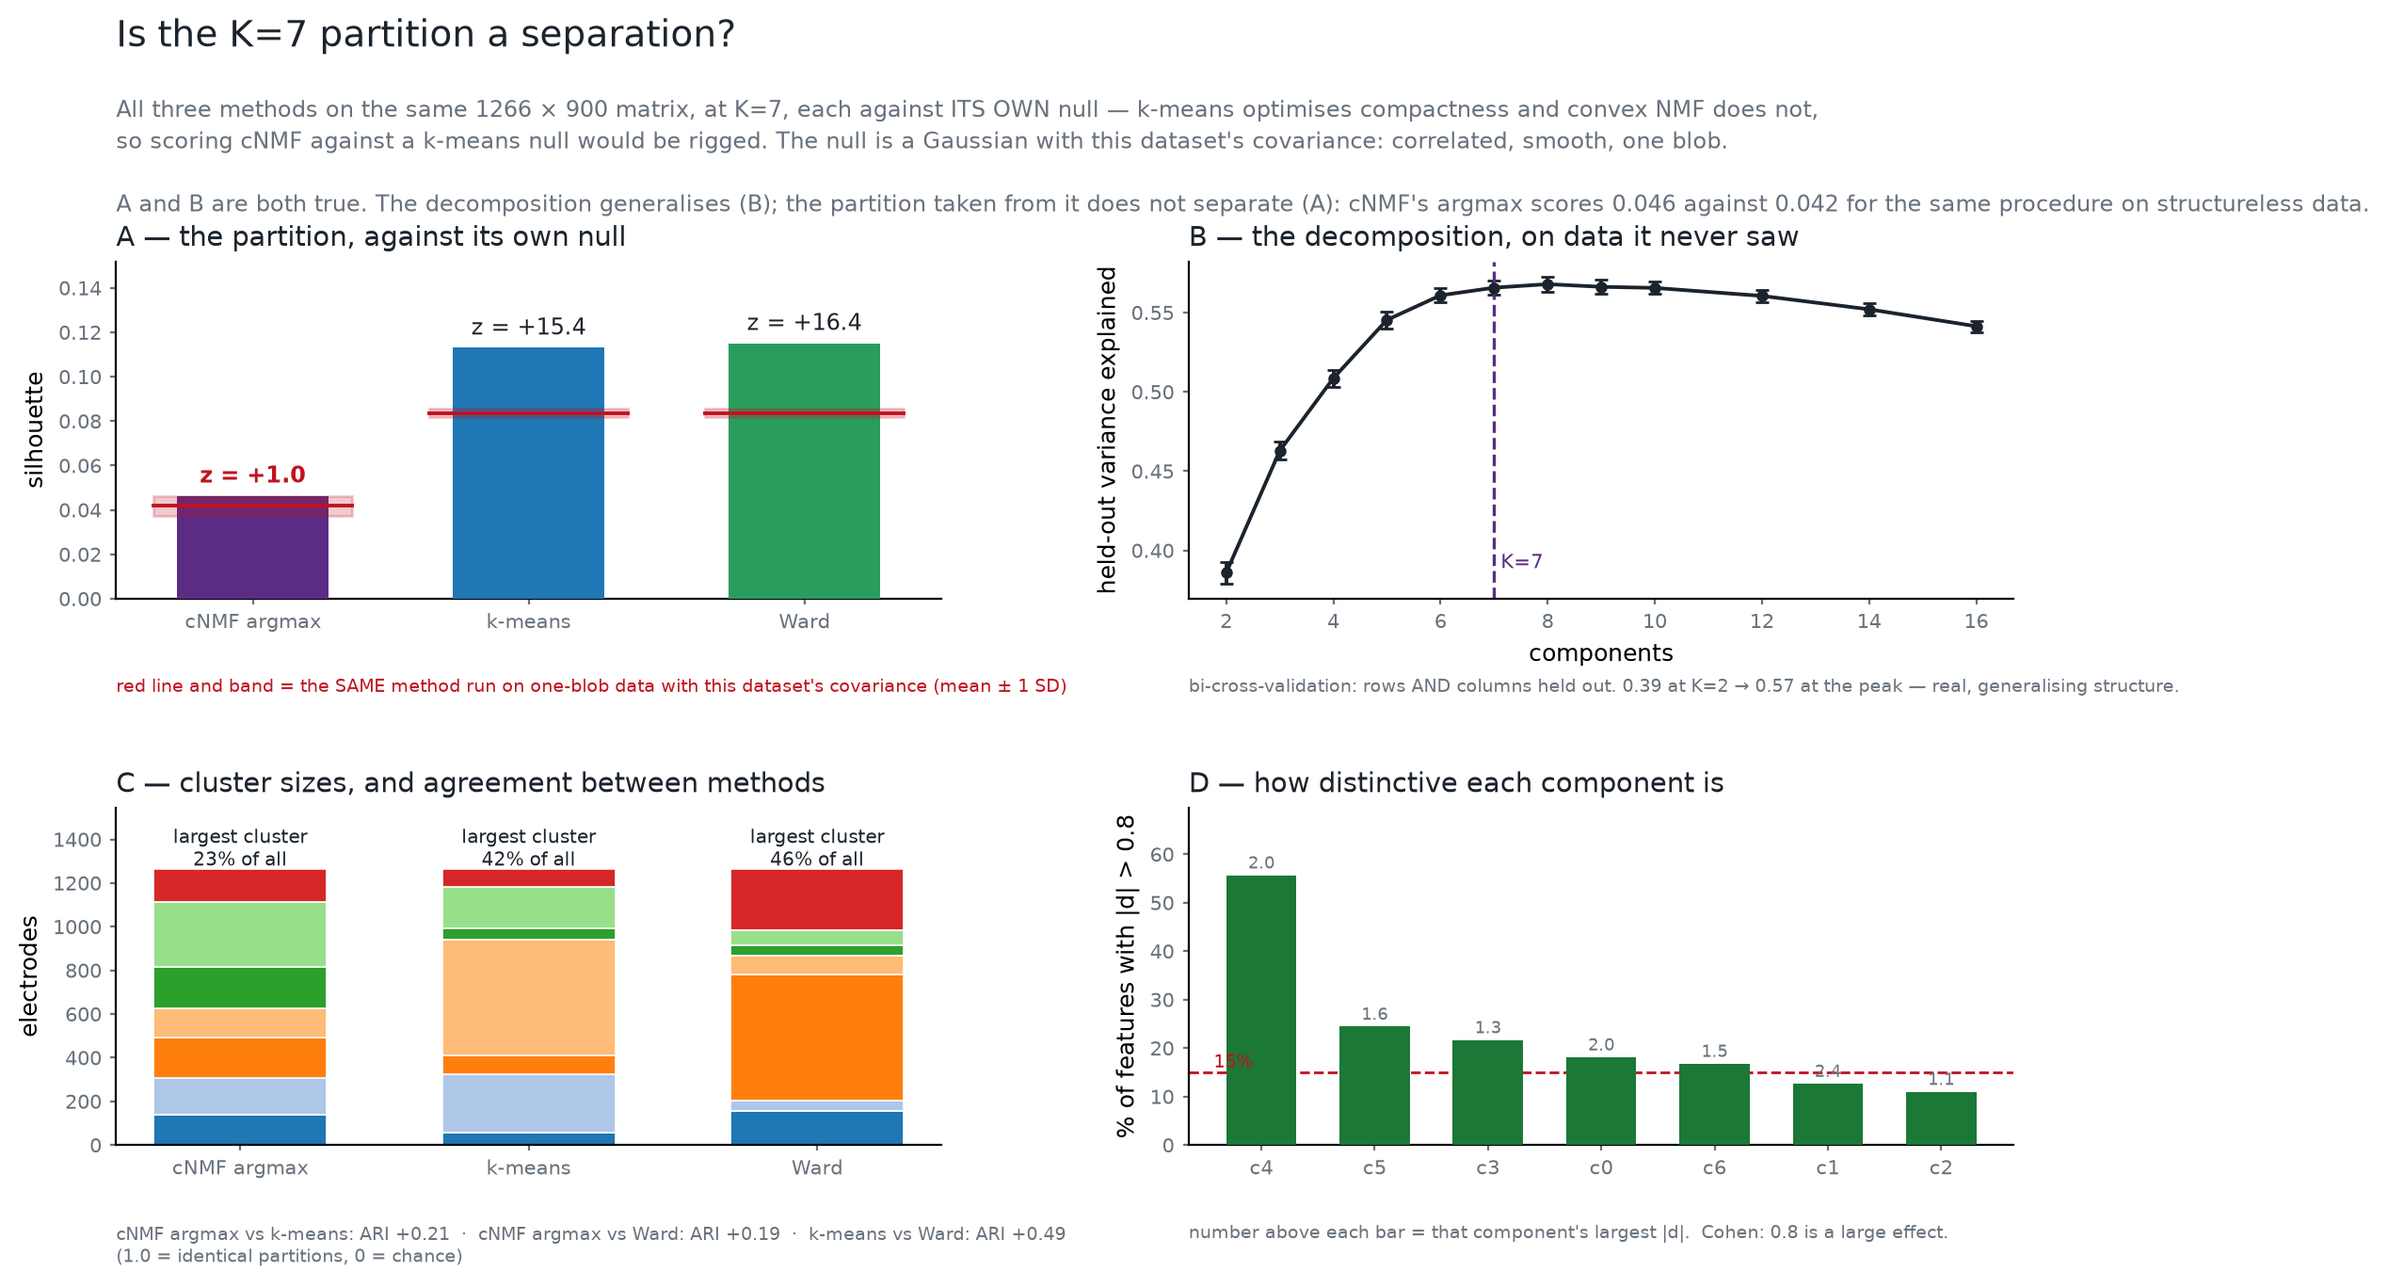
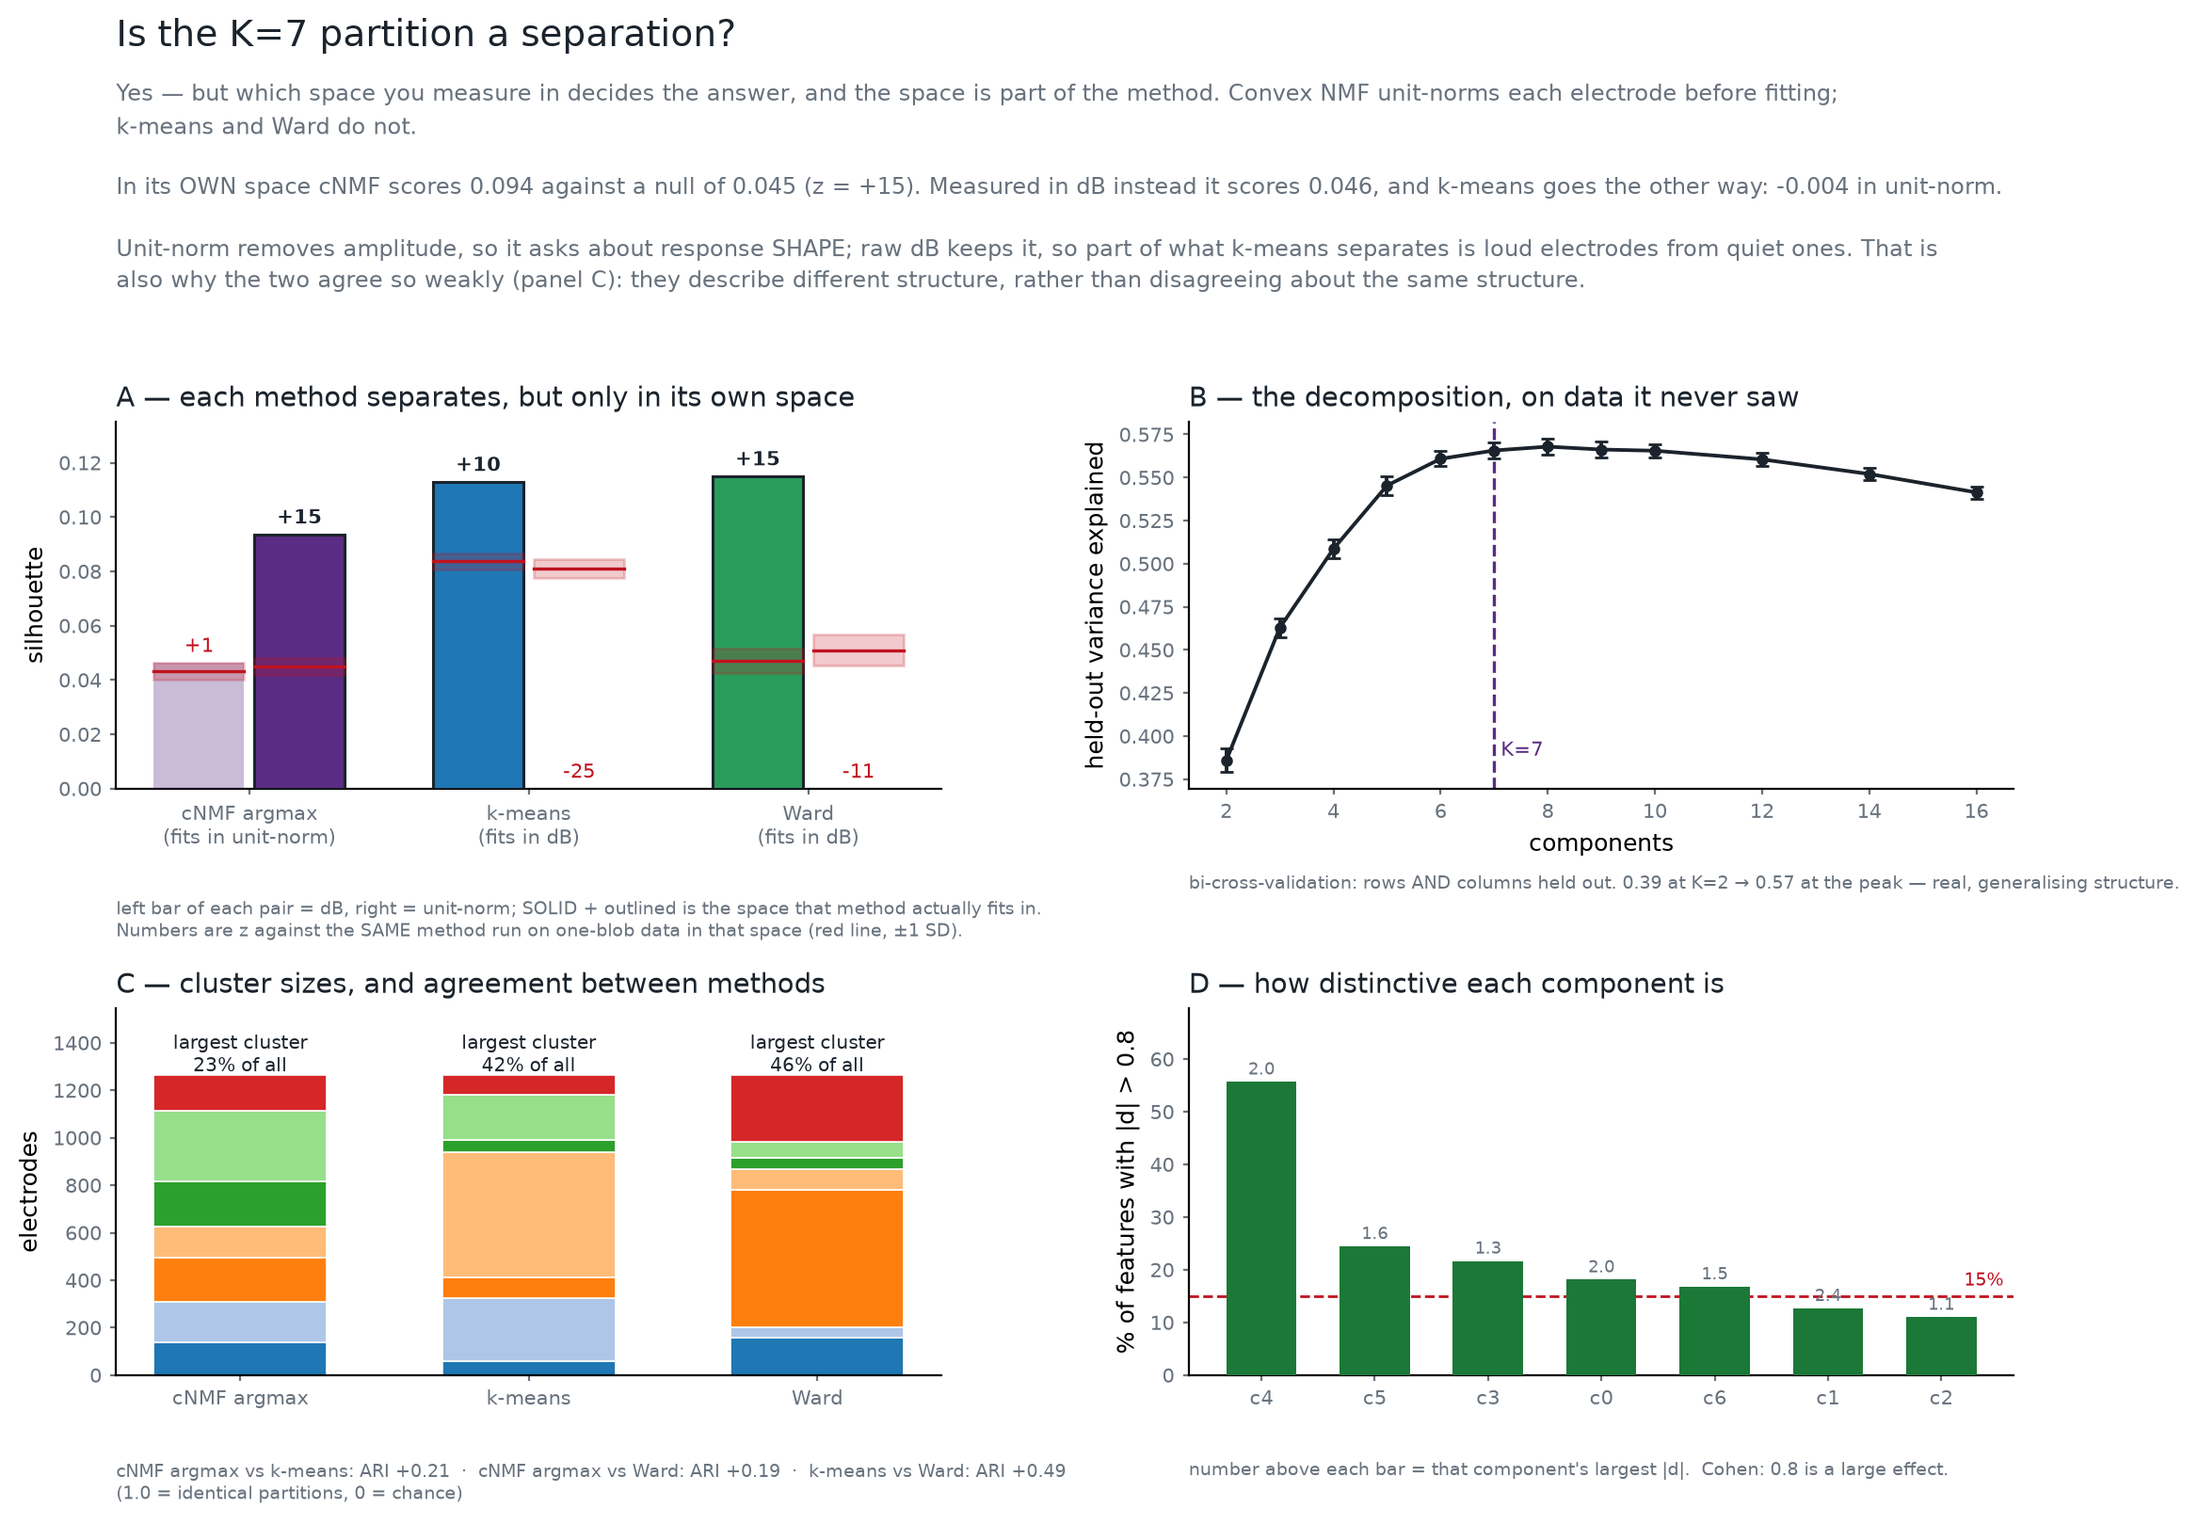
Correct FIG C.7: silhouette is space-dependent, and I measured cNMF in the wrong one
The version pushed an hour ago concluded that the convex-NMF partition does not
separate (silhouette 0.046, z = +1.0). That was wrong, and the error was mine:
convex NMF unit-norms each electrode before fitting - it says so in its own
manifest - while k-means and Ward fit on raw dB. X_train.npy is raw dB, so
scoring all three there measured cNMF in a space it never optimised in.

Scored in both spaces, each against a null built the same way in that space:

                        dB                unit-norm
    cNMF argmax    0.046  z  +1      0.094  z +15   <- its own space
    k-means        0.113  z +10     -0.004  z -25
    Ward           0.115  z +15     -0.010  z -11

Every method beats its null decisively at home and collapses in the other's. The
answer to "is this a real separation" is yes; the earlier "no" was an artefact of
the test.

The corrected result is also more informative than the wrong one. Unit-norm
divides out magnitude, so it compares response SHAPE; raw dB keeps magnitude, so
part of what k-means and Ward separate is loud electrodes from quiet ones. That
is why the methods agree so weakly (ARI 0.21 / 0.19 / 0.49): they are describing
different structure rather than contradicting each other about the same
structure. Which space you want is a scientific choice, not a technical one.

Ward also gets its own null now instead of borrowing k-means'. They are not
interchangeable: Ward's dB null is 0.047 against k-means' 0.084.
[…]

diff --git a/02_FBM_Clustering/make_separation_figure.py b/02_FBM_Clustering/make_separation_figure.py
@@ -70,7 +70,19 @@ INK, MUTED = "#1b232c", "#68727d"
 
 
 def compute():
-    from sklearn.cluster import KMeans
+    """Silhouette for each method in BOTH spaces, each against its own matched null.
+
+    THE SPACE IS PART OF THE METHOD. X_train.npy is raw dB; convex NMF unit-norms
+    per electrode before fitting (see its manifest), k-means and Ward do not. An
+    earlier version of this figure scored all three in dB and concluded cNMF did not
+    separate - it had simply been scored in a space it never optimised in. Measured
+    both ways, cNMF goes 0.046 in dB to 0.094 in unit-norm, and k-means goes 0.113
+    in dB to -0.004 in unit-norm. Neither number alone is the answer.
+
+    Unit-norm removes amplitude, so it asks about response SHAPE. Raw dB keeps
+    amplitude, so part of what k-means separates is loud electrodes from quiet ones.
+    """
+    from sklearn.cluster import KMeans, AgglomerativeClustering
     from sklearn.metrics import (silhouette_score, adjusted_rand_score,
                                  normalized_mutual_info_score)
     import lf_decompose as LD
@@ -84,9 +96,13 @@ def compute():
         "k-means": pd.read_csv(RUNS["k-means"] / "cluster_labels_by_k.csv")[f"k_{K}"].to_numpy(),
         "Ward": pd.read_csv(RUNS["Ward"] / "cluster_labels_by_k.csv")[f"k_{K}"].to_numpy(),
     }
+    HOME = {"cNMF argmax": "unit-norm", "k-means": "dB", "Ward": "dB"}
 
-    # one-blob surrogates: the data's own covariance, no cluster structure
-    rng = np.random.default_rng(0)
+    def unit(A):
+        return A / np.maximum(np.linalg.norm(A, axis=1, keepdims=True), 1e-12)
+
+    spaces = {"dB": X, "unit-norm": unit(X)}
+
     Xc = X - X.mean(0)
     n = len(X)
     U, S, Vt = np.linalg.svd(Xc, full_matrices=False)
@@ -95,29 +111,42 @@ def compute():
         Z = np.random.default_rng(seed).standard_normal((n, len(S)))
         return (Z * (S / np.sqrt(n - 1))) @ Vt
 
-    km_null = [silhouette_score(Y, KMeans(K, n_init=10, random_state=i).fit_predict(Y))
-               for i, Y in ((i, surrogate(100 + i)) for i in range(N_NULL_KM))]
-    cn_null = []
-    for i in range(N_NULL_CNMF):
-        Y = surrogate(200 + i)
+    def fit(alg, Y, seed):
+        if alg == "k-means":
+            return KMeans(K, n_init=10, random_state=seed).fit_predict(Y)
+        if alg == "Ward":
+            return AgglomerativeClustering(n_clusters=K, linkage="ward").fit_predict(Y)
         Gy = LD.convex_nmf(Y, K, n_iter=300)[1]
-        Gy = Gy / np.maximum(Gy.sum(1, keepdims=True), 1e-12)
-        cn_null.append(silhouette_score(Y, Gy.argmax(1)))
+        return (Gy / np.maximum(Gy.sum(1, keepdims=True), 1e-12)).argmax(1)
 
-    # k-means and Ward are both compactness partitions, so they share the k-means null
-    nulls = {"cNMF argmax": cn_null, "k-means": km_null, "Ward": km_null}
+    nulls = {}
+    for alg in labels:
+        for sp in spaces:
+            reps = N_NULL_CNMF if alg == "cNMF argmax" else N_NULL_KM
+            vals = []
+            for i in range(reps):
+                Y = surrogate(400 + i)
+                Y = unit(Y) if sp == "unit-norm" else Y
+                vals.append(silhouette_score(Y, fit(alg, Y, i)))
+            nulls[(alg, sp)] = vals
+            print(f"      null {alg:<12} {sp:<10} {np.mean(vals):.4f} +/- {np.std(vals):.4f}")
 
     stats = {"K": K, "n_electrodes": int(n), "n_features": int(X.shape[1]),
-             "methods": {}, "ari": {}, "bicv": {}, "per_component": {}}
+             "home_space": HOME, "methods": {}, "ari": {}, "bicv": {},
+             "per_component": {}}
     for m, lab in labels.items():
-        nl = np.array(nulls[m])
-        s = float(silhouette_score(X, lab))
-        stats["methods"][m] = dict(
-            silhouette=s, null_mean=float(nl.mean()), null_sd=float(nl.std()),
-            z=float((s - nl.mean()) / max(nl.std(), 1e-9)),
-            n_null=len(nl),
-            sizes=[int(v) for v in np.bincount(lab, minlength=K)],
-            largest_share=float(np.bincount(lab, minlength=K).max() / n))
+        e = {"sizes": [int(v) for v in np.bincount(lab, minlength=K)],
+             "largest_share": float(np.bincount(lab, minlength=K).max() / n),
+             "home": HOME[m], "spaces": {}}
+        for sp, A in spaces.items():
+            nl = np.array(nulls[(m, sp)])
+            sv = float(silhouette_score(A, lab))
+            e["spaces"][sp] = dict(silhouette=sv, null_mean=float(nl.mean()),
+                                   null_sd=float(nl.std()),
+                                   z=float((sv - nl.mean()) / max(nl.std(), 1e-9)),
+                                   n_null=len(nl))
+        stats["methods"][m] = e
+
     names = list(labels)
     for i, a in enumerate(names):
         for b in names[i + 1:]:
@@ -131,15 +160,14 @@ def compute():
                      "mean": [float(v) for v in g.mean()],
                      "se": [float(v) for v in g.std() / np.sqrt(g.count())]}
 
-    # per-component effect sizes, cNMF
     cn = labels["cNMF argmax"]
     shares, maxd = [], []
     for j in range(K):
-        m = cn == j
-        a, b = X[m], X[~m]
-        sp = np.sqrt(((len(a) - 1) * a.var(0, ddof=1) + (len(b) - 1) * b.var(0, ddof=1))
-                     / (len(a) + len(b) - 2))
-        d = np.abs((a.mean(0) - b.mean(0)) / np.maximum(sp, 1e-9))
+        m_ = cn == j
+        a, b = X[m_], X[~m_]
+        sp_ = np.sqrt(((len(a) - 1) * a.var(0, ddof=1) + (len(b) - 1) * b.var(0, ddof=1))
+                      / (len(a) + len(b) - 2))
+        d = np.abs((a.mean(0) - b.mean(0)) / np.maximum(sp_, 1e-9))
         shares.append(float((d > 0.8).mean() * 100))
         maxd.append(float(d.max()))
     stats["per_component"] = {"share_large_pct": shares, "max_abs_d": maxd,
@@ -148,37 +176,52 @@ def compute():
 
 
 def draw(stats, out_png):
-    fig = plt.figure(figsize=(11.2, 6.8), dpi=200)
+    # The header is nine lines now, so it needs its own strip rather than being
+    # squeezed above a top=0.775 grid - it was landing on the A and B titles.
+    fig = plt.figure(figsize=(11.2, 8.1), dpi=200)
     gs = GridSpec(2, 2, width_ratios=[1, 1], height_ratios=[1, 1],
-                  wspace=0.30, hspace=0.62, left=0.075, right=0.975,
-                  top=0.775, bottom=0.085)
+                  wspace=0.30, hspace=0.60, left=0.075, right=0.975,
+                  top=0.700, bottom=0.075)
     names = list(stats["methods"])
 
-    # ---- A: silhouette against each method's own null
+    # ---- A: silhouette in BOTH spaces, each against its own null
     ax = fig.add_subplot(gs[0, 0])
+    SPACES = ["dB", "unit-norm"]
+    w = 0.36
     for i, m in enumerate(names):
-        d = stats["methods"][m]
-        ax.bar(i, d["silhouette"], width=0.55, color=COL[m], zorder=3)
-        lo, hi = d["null_mean"] - d["null_sd"], d["null_mean"] + d["null_sd"]
-        ax.add_patch(plt.Rectangle((i - 0.36, lo), 0.72, max(hi - lo, 1e-4),
-                                   color="#c1121f", alpha=0.22, zorder=4))
-        ax.plot([i - 0.36, i + 0.36], [d["null_mean"]] * 2, color="#c1121f",
-                lw=1.4, zorder=5)
-        ax.text(i, d["silhouette"] + 0.006, f"z = {d['z']:+.1f}", ha="center",
-                fontsize=8.5, color=INK if d["z"] > 2 else "#c1121f",
-                fontweight="bold" if d["z"] < 2 else "normal")
+        for si, sp in enumerate(SPACES):
+            d = stats["methods"][m]["spaces"][sp]
+            home = stats["methods"][m]["home"] == sp
+            x = i + (si - 0.5) * w
+            ax.bar(x, max(d["silhouette"], 0), width=w * 0.9, color=COL[m],
+                   alpha=1.0 if home else 0.32, zorder=3,
+                   edgecolor=INK if home else "none", lw=1.1)
+            lo = d["null_mean"] - d["null_sd"]
+            ax.add_patch(plt.Rectangle((x - w * 0.45, lo), w * 0.9,
+                                       max(2 * d["null_sd"], 1e-4),
+                                       color="#c1121f", alpha=0.22, zorder=4))
+            ax.plot([x - w * 0.45, x + w * 0.45], [d["null_mean"]] * 2,
+                    color="#c1121f", lw=1.2, zorder=5)
+            ax.text(x, max(d["silhouette"], 0) + 0.004, f"{d['z']:+.0f}",
+                    ha="center", fontsize=7.6,
+                    color=INK if d["z"] > 2 else "#c1121f",
+                    fontweight="bold" if home else "normal")
     ax.set_xticks(range(len(names)))
-    ax.set_xticklabels(names, fontsize=8.5)
+    ax.set_xticklabels([f"{m}\n(fits in {stats['methods'][m]['home']})" for m in names],
+                       fontsize=8)
     ax.set_ylabel("silhouette", fontsize=9)
-    ax.set_ylim(0, max(v["silhouette"] for v in stats["methods"].values()) * 1.32)
+    ax.set_ylim(0, 0.135)
     ax.tick_params(labelsize=7.5, length=2, colors=MUTED)
-    for sp in ("top", "right"):
-        ax.spines[sp].set_visible(False)
-    ax.set_title("A — the partition, against its own null", fontsize=10.5,
-                 loc="left", color=INK, pad=6)
-    ax.text(0.0, -0.235, "red line and band = the SAME method run on one-blob data "
-            "with this dataset's covariance (mean ± 1 SD)",
-            transform=ax.transAxes, fontsize=7, color="#c1121f", va="top")
+    for sp_ in ("top", "right"):
+        ax.spines[sp_].set_visible(False)
+    ax.set_title("A — each method separates, but only in its own space",
+                 fontsize=10.5, loc="left", color=INK, pad=6)
+    ax.text(0.0, -0.30,
+            "left bar of each pair = dB, right = unit-norm; SOLID + outlined is the space that "
+            "method actually fits in.\n"
+            "Numbers are z against the SAME method run on one-blob data "
+            "in that space (red line, ±1 SD).",
+            transform=ax.transAxes, fontsize=7, color=MUTED, va="top")
 
     # ---- B: the decomposition itself does generalise
     axb = fig.add_subplot(gs[0, 1])
@@ -230,7 +273,7 @@ def draw(stats, out_png):
     order = np.argsort(-sh)
     axd.bar(range(K), sh[order], width=0.62, color="#1b7837", zorder=3)
     axd.axhline(15, color="#c1121f", lw=1.0, ls="--")
-    axd.text(-0.42, 16, "15%", fontsize=7, color="#c1121f", ha="left")
+    axd.text(K - 0.45, 17.0, "15%", fontsize=7, color="#c1121f", ha="right")
     for i, j in enumerate(order):
         axd.text(i, sh[j] + 1.4, f"{stats['per_component']['max_abs_d'][j]:.1f}",
                  ha="center", fontsize=6.6, color=MUTED)
@@ -249,18 +292,26 @@ def draw(stats, out_png):
 
     fig.suptitle("Is the K=7 partition a separation?", x=0.075, y=0.965,
                  ha="left", fontsize=14, color=INK)
-    cn = stats["methods"]["cNMF argmax"]
-    fig.text(0.075, 0.905,
-             f"All three methods on the same {stats['n_electrodes']} × "
-             f"{stats['n_features']} matrix, at K={K}, each against ITS OWN null — "
-             f"k-means optimises compactness and convex NMF does not,\n"
-             f"so scoring cNMF against a k-means null would be rigged. The null is a "
-             f"Gaussian with this dataset's covariance: correlated, smooth, one blob.\n\n"
-             f"A and B are both true. The decomposition generalises (B); the partition "
-             f"taken from it does not separate (A): cNMF's argmax scores "
-             f"{cn['silhouette']:.3f} against {cn['null_mean']:.3f} for the same "
-             f"procedure on structureless data.",
-             fontsize=8.6, color=MUTED, va="top", linespacing=1.4)
+    cu = stats["methods"]["cNMF argmax"]["spaces"]["unit-norm"]
+    cd = stats["methods"]["cNMF argmax"]["spaces"]["dB"]
+    ku = stats["methods"]["k-means"]["spaces"]["unit-norm"]
+    hdr = "".join([chr(10)]).join([
+        "Yes — but which space you measure in decides the answer, and the space is "
+        "part of the method. Convex NMF unit-norms each electrode before fitting;",
+        "k-means and Ward do not.",
+        "",
+        f"In its OWN space cNMF scores {cu['silhouette']:.3f} against a null of "
+        f"{cu['null_mean']:.3f} (z = {cu['z']:+.0f}). Measured in dB instead it scores "
+        f"{cd['silhouette']:.3f}, and k-means goes the other way: {ku['silhouette']:+.3f} "
+        "in unit-norm.",
+        "",
+        "Unit-norm removes amplitude, so it asks about response SHAPE; raw dB keeps it, "
+        "so part of what k-means separates is loud electrodes from quiet ones. That is",
+        "also why the two agree so weakly (panel C): they describe different structure, "
+        "rather than disagreeing about the same structure.",
+    ])
+    fig.text(0.075, 0.925, hdr, fontsize=8.5, color=MUTED, va="top",
+             linespacing=1.4)
     fig.savefig(out_png, dpi=200, bbox_inches="tight", facecolor="white")
     plt.close(fig)
 
@@ -281,10 +332,13 @@ def main() -> int:
         stats = compute()
         js.write_text(json.dumps(stats, indent=2), encoding="utf-8")
 
-    for m, d in stats["methods"].items():
-        print(f"    {m:<12} silhouette {d['silhouette']:.4f}  "
-              f"null {d['null_mean']:.4f}+/-{d['null_sd']:.4f}  z {d['z']:+.1f}  "
-              f"largest cluster {100*d['largest_share']:.0f}%")
+    for m, e in stats["methods"].items():
+        for sp, d in e["spaces"].items():
+            mark = "  <- its own space" if sp == e["home"] else ""
+            print(f"    {m:<12} {sp:<10} silhouette {d['silhouette']:+.4f}  "
+                  f"null {d['null_mean']:.4f}+/-{d['null_sd']:.4f}  "
+                  f"z {d['z']:+6.1f}{mark}")
+        print(f"    {'':<12} largest cluster {100*e['largest_share']:.0f}% of all")
     for p, v in stats["ari"].items():
         print(f"    {p:<28} ARI {v['ari']:+.3f}")
     draw(stats, OUT / "C7_separation.png")
